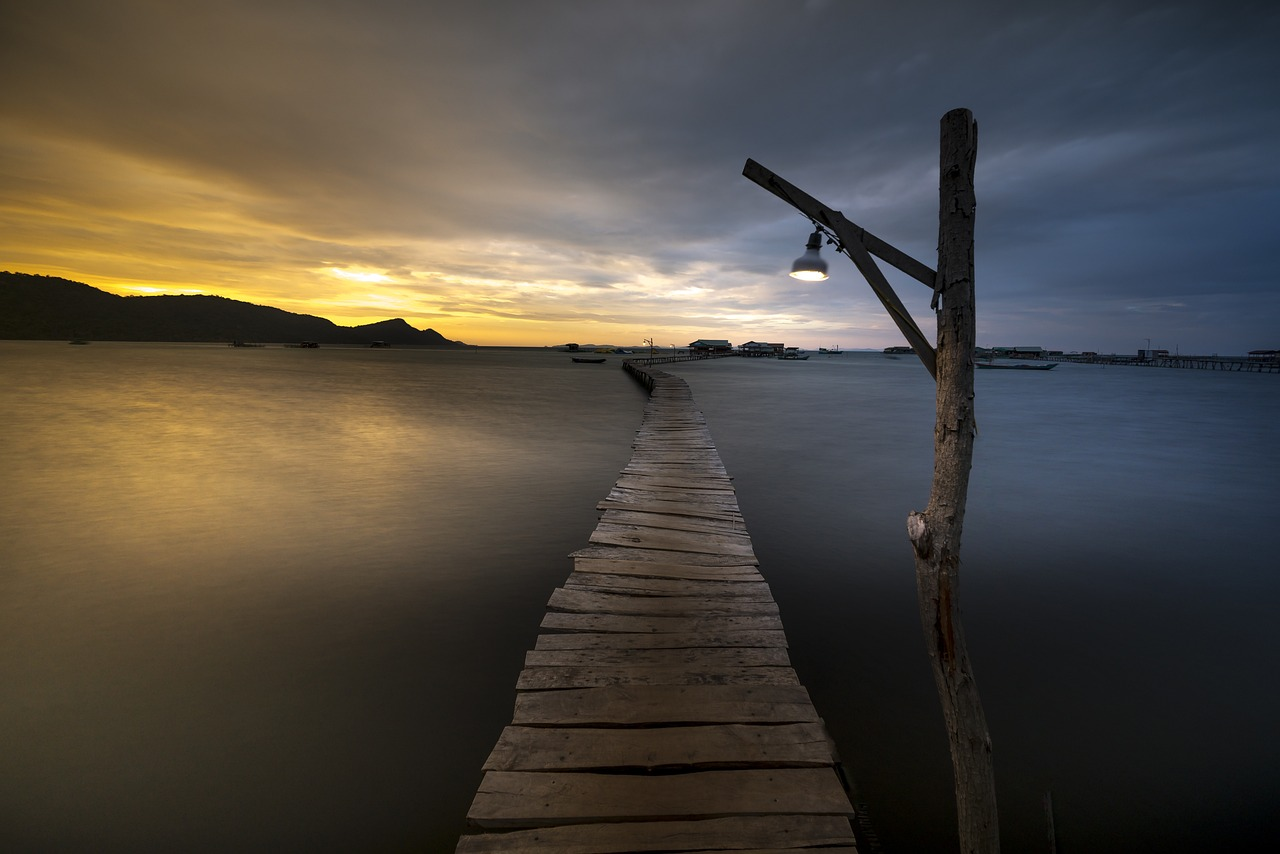
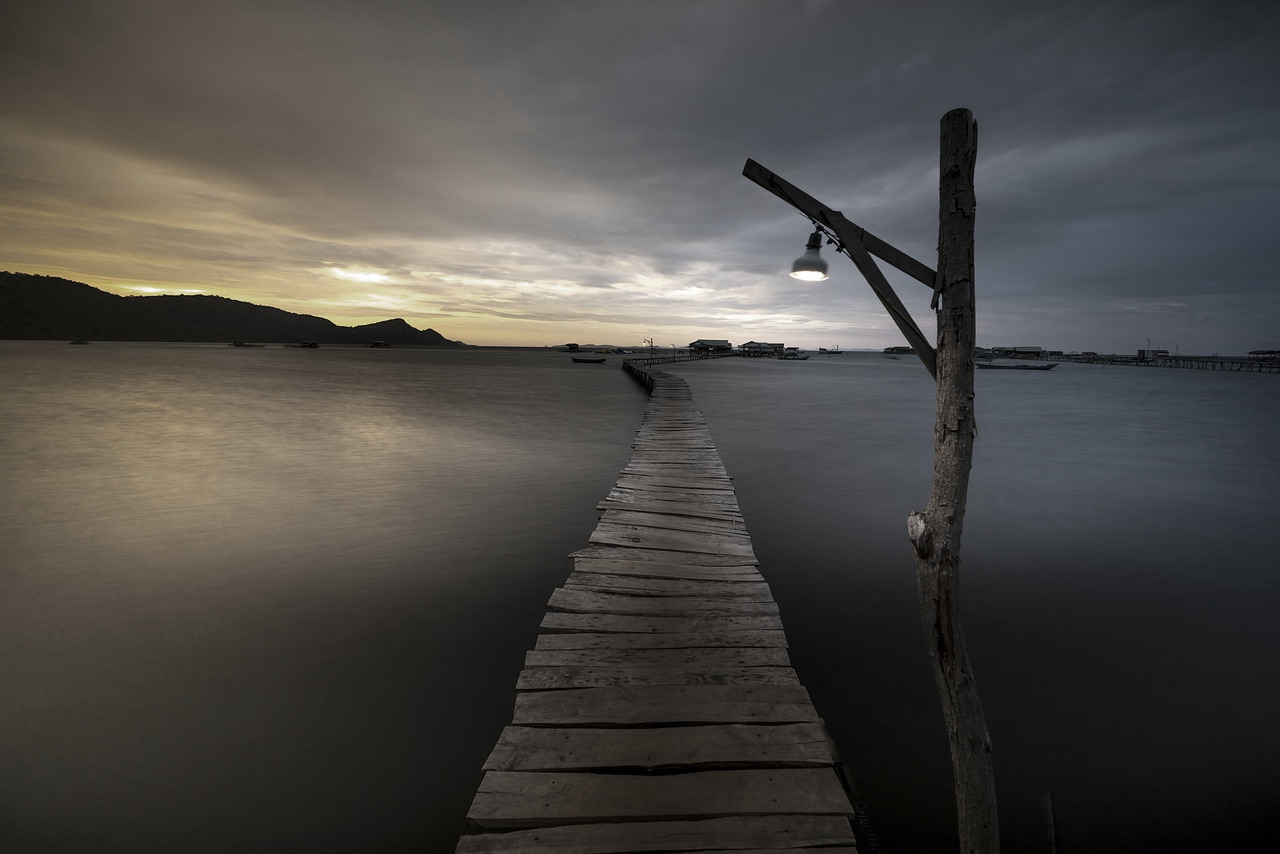
complete main page hero section

Changed region(s): [[0.0, 0.1522, 0.5625, 0.4262], [0.0312, 0.4262, 0.3438, 0.6393]]

diff --git a/src/app/page.tsx b/src/app/page.tsx
@@ -1,12 +1,21 @@
-import Link from 'next/link'
-
 export default function Home() {
   return (
-    <main className="min-h-screen w-full relative bg-main-bg bg-no-repeat bg-cover">
-      <Link href="/auth/signin">Sign in</Link>
-      <h1 className="font-radio-canada text-5xl text-white font-bold text-center">
-        Ruby Resorts
-      </h1>
+    <main className="min-h-screen w-full relative bg-main-bg bg-no-repeat bg-cover flex flex-col justify-center">
+      <section className="mx-4 px-4 md:mx-20 md:px-12 text-light-text">
+        <div className="mb-12 font-playfair">
+          <h2 className="tracking-[0.8rem] text-sm md:text-base uppercase mb-4">
+            Welcome to the{' '}
+          </h2>
+          <h1 className="font-radio-canada text-4xl md:text-6xl font-medium ">
+            Ruby Resorts
+          </h1>
+        </div>
+
+        <div className="text-base md:text-xl">
+          <h3> Escape to the tropical paradise.</h3>
+          <h3> Discover the Ultimate Luxury Resort Experience</h3>
+        </div>
+      </section>
     </main>
   )
 }

diff --git a/src/components/navbar/Navbar.tsx b/src/components/navbar/Navbar.tsx
@@ -1,7 +1,25 @@
+import Link from 'next/link'
+import ImageWrapper from '@/atoms/ImageWrapper'
+import MenuIcon from '@public/icons/menu.png'
+
 const Navbar = () => {
   return (
-    <nav>
-      <h2></h2>
+    <nav className="absolute inset-x-0 text-light-text z-[99] flex justify-between items-center px-4 lg:px-12 py-8">
+      <Link href="/">
+        <div className="flex flex-col items-center justify-center gap-0">
+          <h2 className="tracking-[.1em] leading-4 text-lg font-bold uppercase">
+            Ruby
+          </h2>
+          <h3 className="tracking-tighter text-xs">Resorts</h3>
+        </div>
+      </Link>
+
+      <ImageWrapper
+        src={MenuIcon}
+        alt={'menu icon'}
+        containerStyle="h-8 w-8 md:h-12 md:w-12"
+      ></ImageWrapper>
+      {/* <Link href="/auth/signin">Sign in</Link> */}
     </nav>
   )
 }

diff --git a/src/app/layout.tsx b/src/app/layout.tsx
@@ -1,6 +1,7 @@
 import type { Metadata } from 'next'
-import { radio_canada, poppins } from '@/atoms/fonts'
+import { poppins, playfair } from '@/atoms/fonts'
 import './globals.css'
+import Navbar from '@/components/navbar/Navbar'
 
 export const metadata: Metadata = {
   title: 'Create Next App',
@@ -13,8 +14,9 @@ export default function RootLayout({
   children: React.ReactNode
 }>) {
   return (
-    <html lang="en" className={`${poppins.variable} ${radio_canada.variable}`}>
-      <body className="font-poppins">
+    <html lang="en" className={`${poppins.variable} ${playfair.variable}`}>
+      <body className="font-poppins relative">
+        <Navbar></Navbar>
         <main className="min-h-screen w-full font-poppins">{children}</main>
       </body>
     </html>

diff --git a/src/atoms/fonts/index.ts b/src/atoms/fonts/index.ts
@@ -1,4 +1,4 @@
-import { Radio_Canada, Poppins } from 'next/font/google'
+import { Poppins, Playfair_Display } from 'next/font/google'
 
 export const poppins = Poppins({
   weight: ['100', '200', '300', '400', '500', '600', '700', '800', '900'],
@@ -8,10 +8,10 @@ export const poppins = Poppins({
   preload: false,
 })
 
-export const radio_canada = Radio_Canada({
-  weight: ['300', '400', '500', '600', '700'],
+export const playfair = Playfair_Display({
+  weight: ['400', '500', '600', '700', '800', '900'],
   display: 'swap',
   subsets: ['latin'],
-  variable: '--var-radio-canada',
+  variable: '--var-playfair',
   preload: false,
 })

diff --git a/tailwind.config.ts b/tailwind.config.ts
@@ -13,13 +13,16 @@ const config: Config = {
         'gradient-radial': 'radial-gradient(var(--tw-gradient-stops))',
         'gradient-conic':
           'conic-gradient(from 180deg at 50% 50%, var(--tw-gradient-stops))',
-        'main-bg': 'url(/bg-1.jpg)',
+        'main-bg': 'url(/bg.jpg)',
       },
       fontFamily: {
         poppins: 'var(--var-poppins)',
-        'radio-canada': 'var(--var-radio-canada)',
+        playfair: 'var(--var-playfair)',
       },
-      colors: {},
+      colors: {
+        'light-text': '#f9f9f9',
+        navbar: '#111216',
+      },
     },
   },
   plugins: [],
